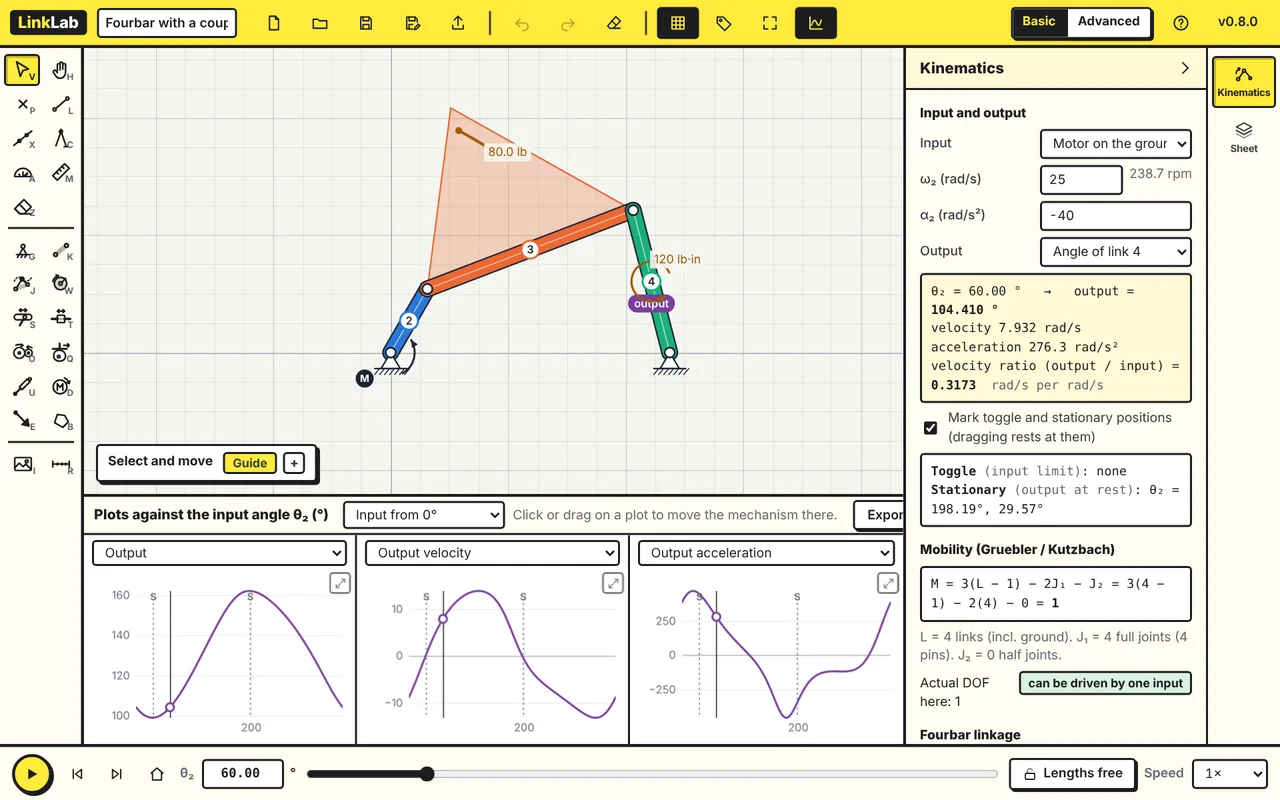
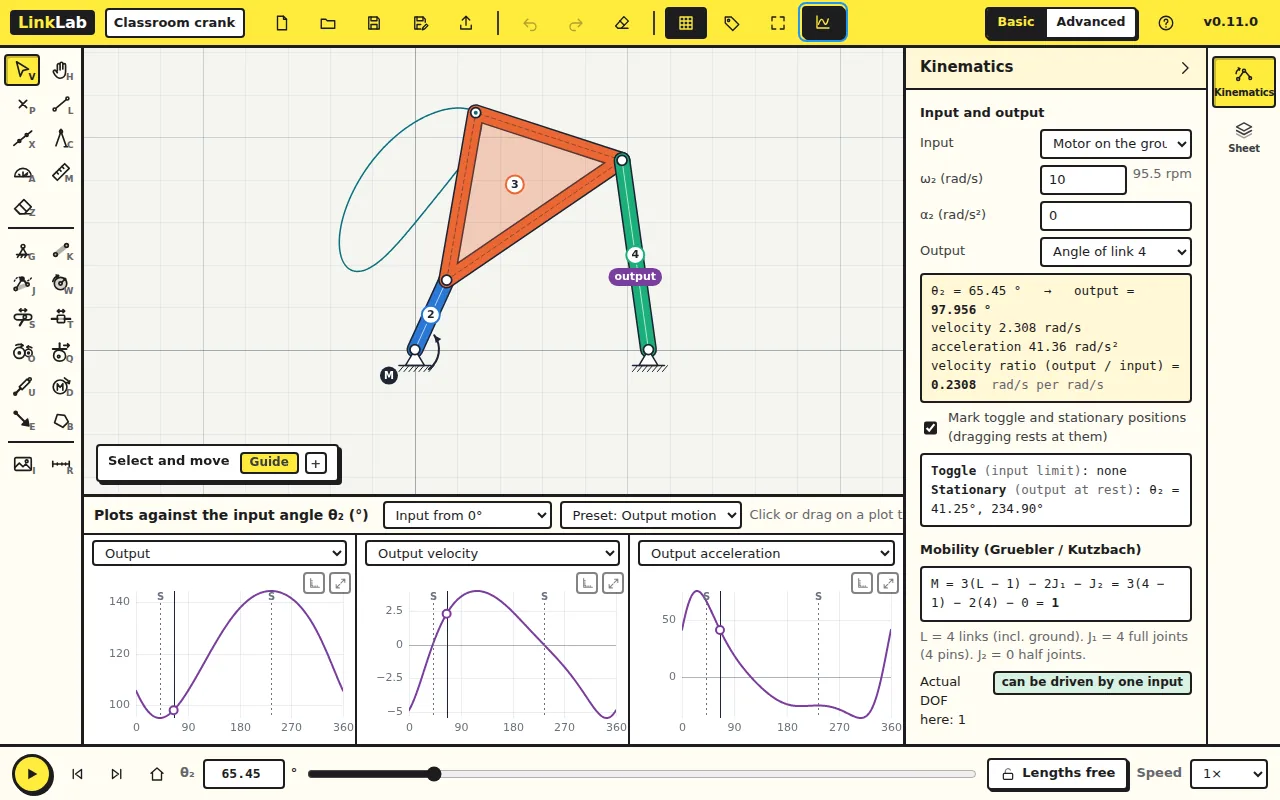
No textbook table numbers in the apps; fresh home-page screenshots
Claude-Session: https://claude.ai/code/session_013RBSkQq36nzQ5pYWu4cGHU

diff --git a/apps/camlab/src/ui/results.js b/apps/camlab/src/ui/results.js
@@ -109,7 +109,7 @@ export function buildResults(el, app) {
     // ---- each rise and fall: factors ----
     const moving = r.segments.filter((sg) => sg.factors);
     if (moving.length) {
-      parts.push(head('factors', 'Each rise and fall (Table 8-3 factors)'));
+      parts.push(head('factors', 'Each rise and fall (peak factors)'));
       parts.push(h('table', { class: 'data' },
         h('thead', {}, h('tr', {}, h('th', {}, 'Segment'), h('th', { title: 'peak velocity × β / h' }, 'V'), h('th', { title: 'peak acceleration × β² / h' }, 'A'), h('th', { title: 'peak jerk × β³ / h' }, 'J'))),
         h('tbody', {}, moving.map((sg) => {
